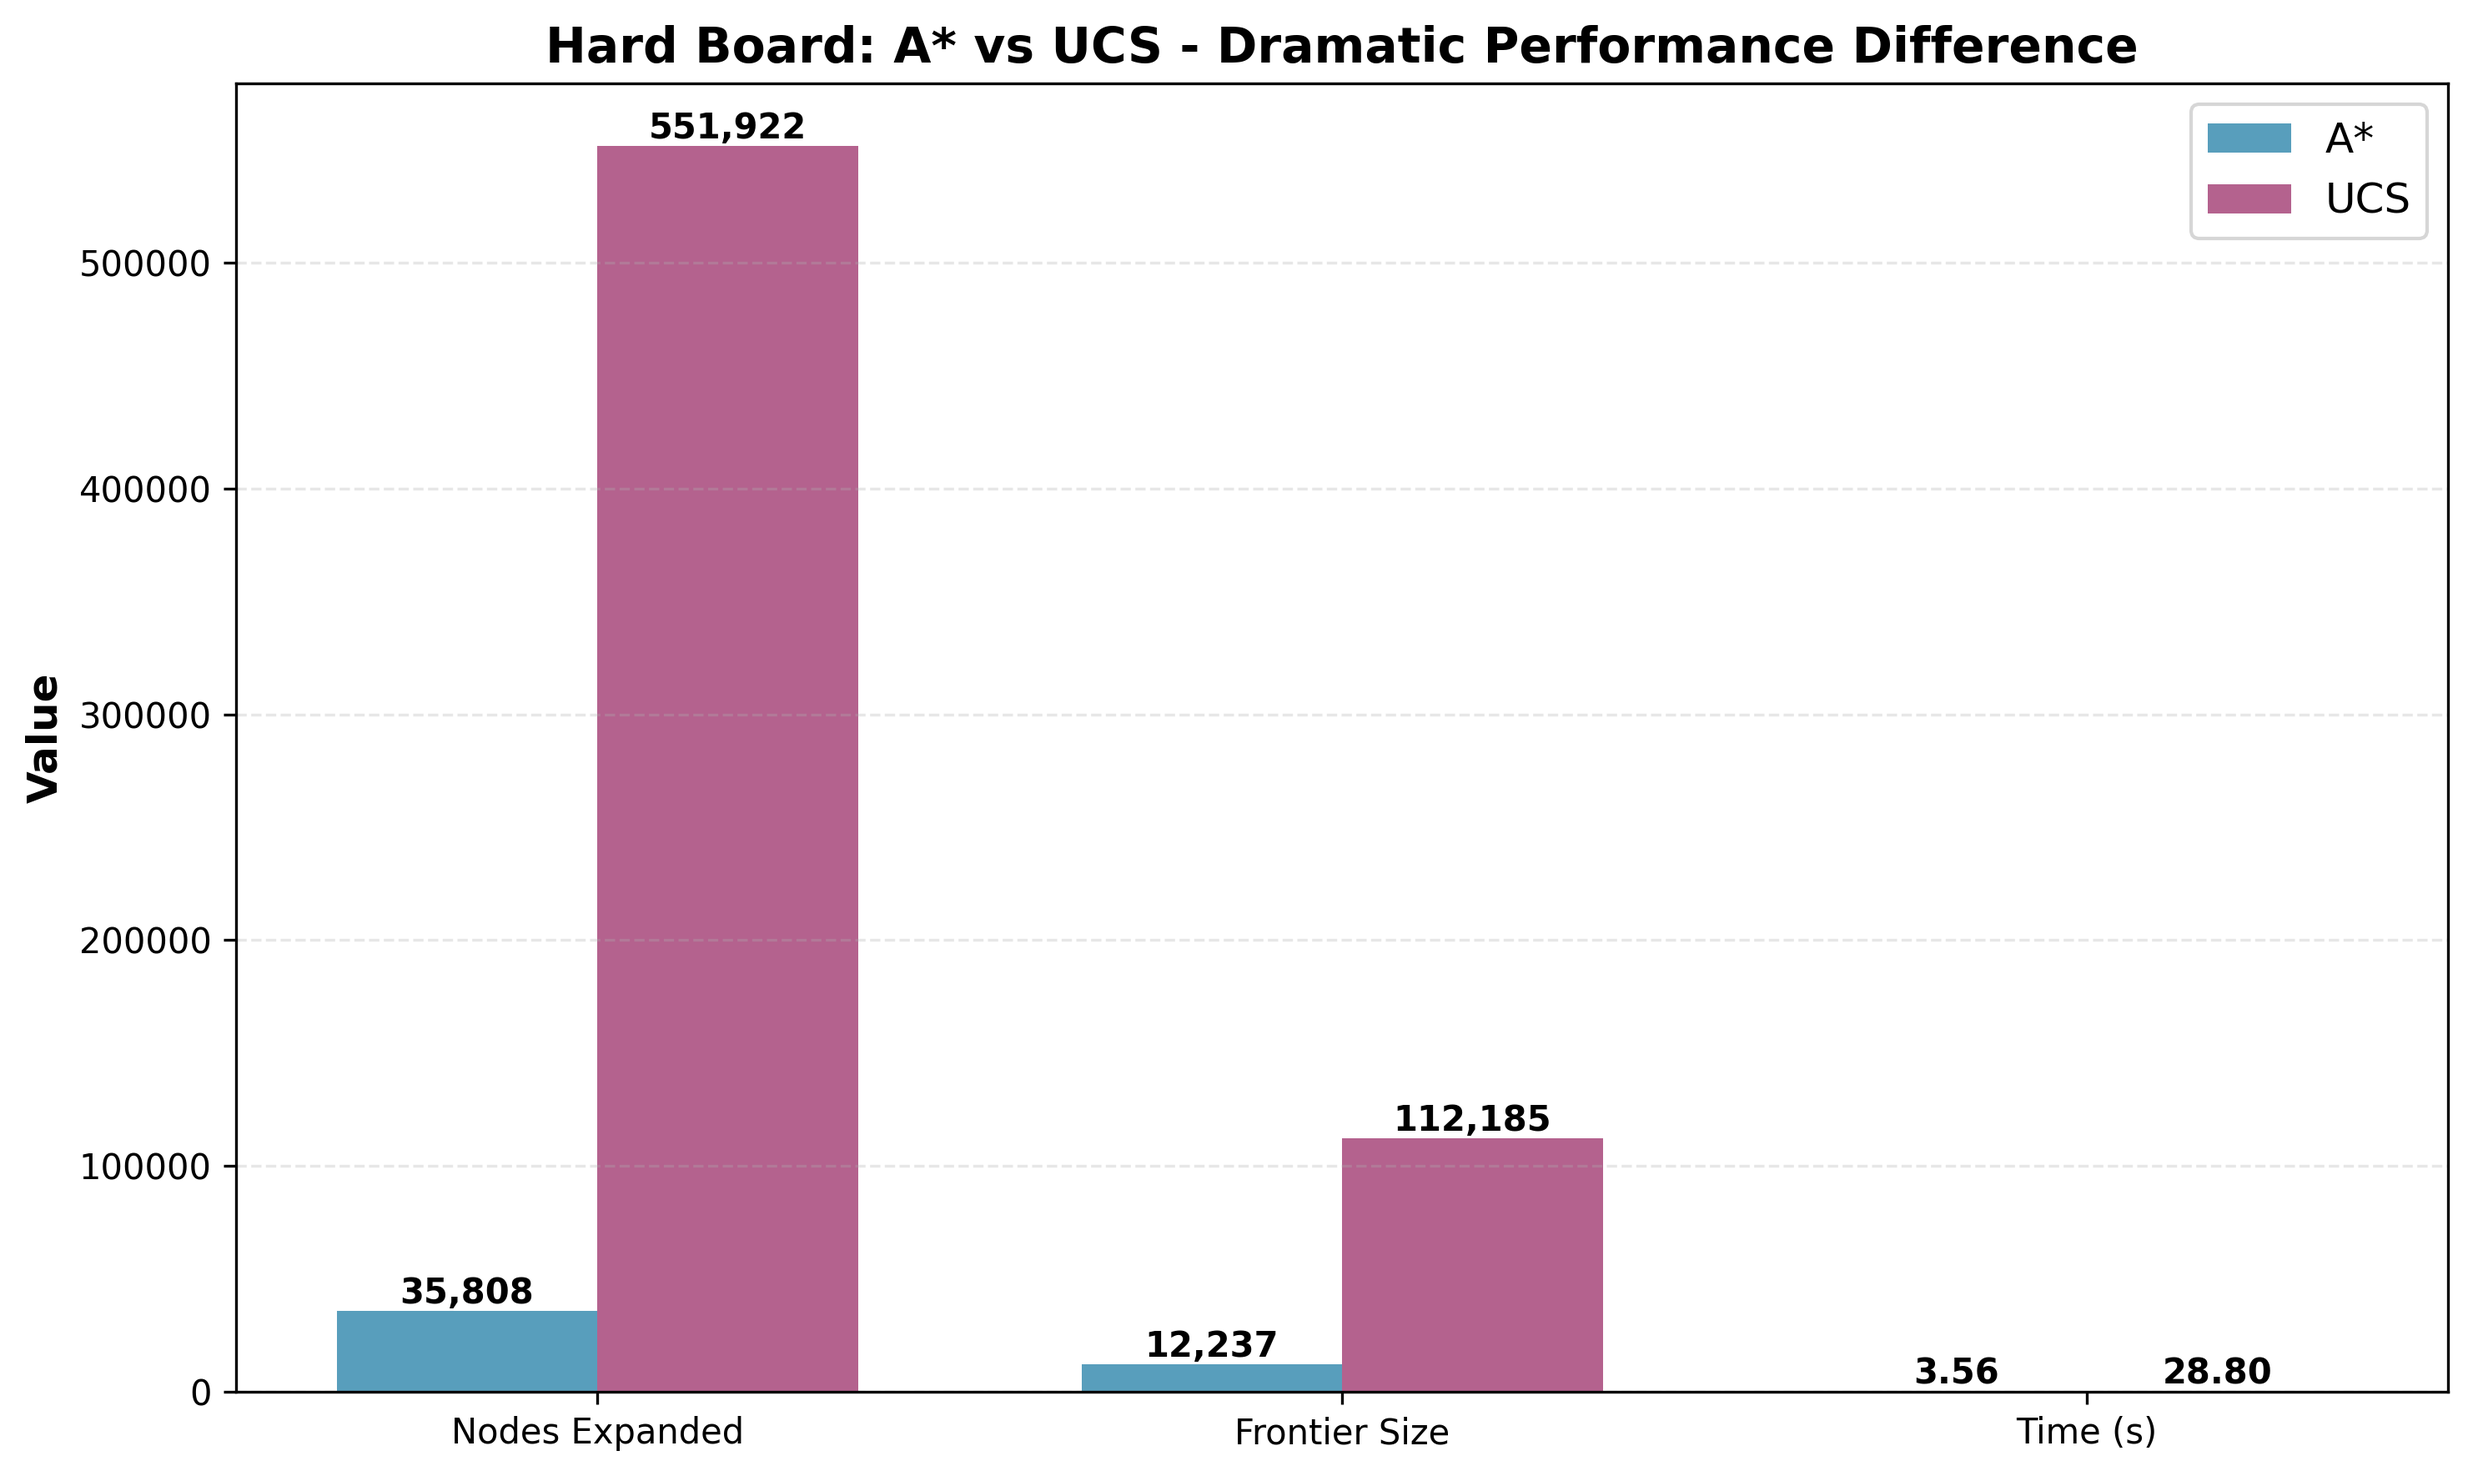
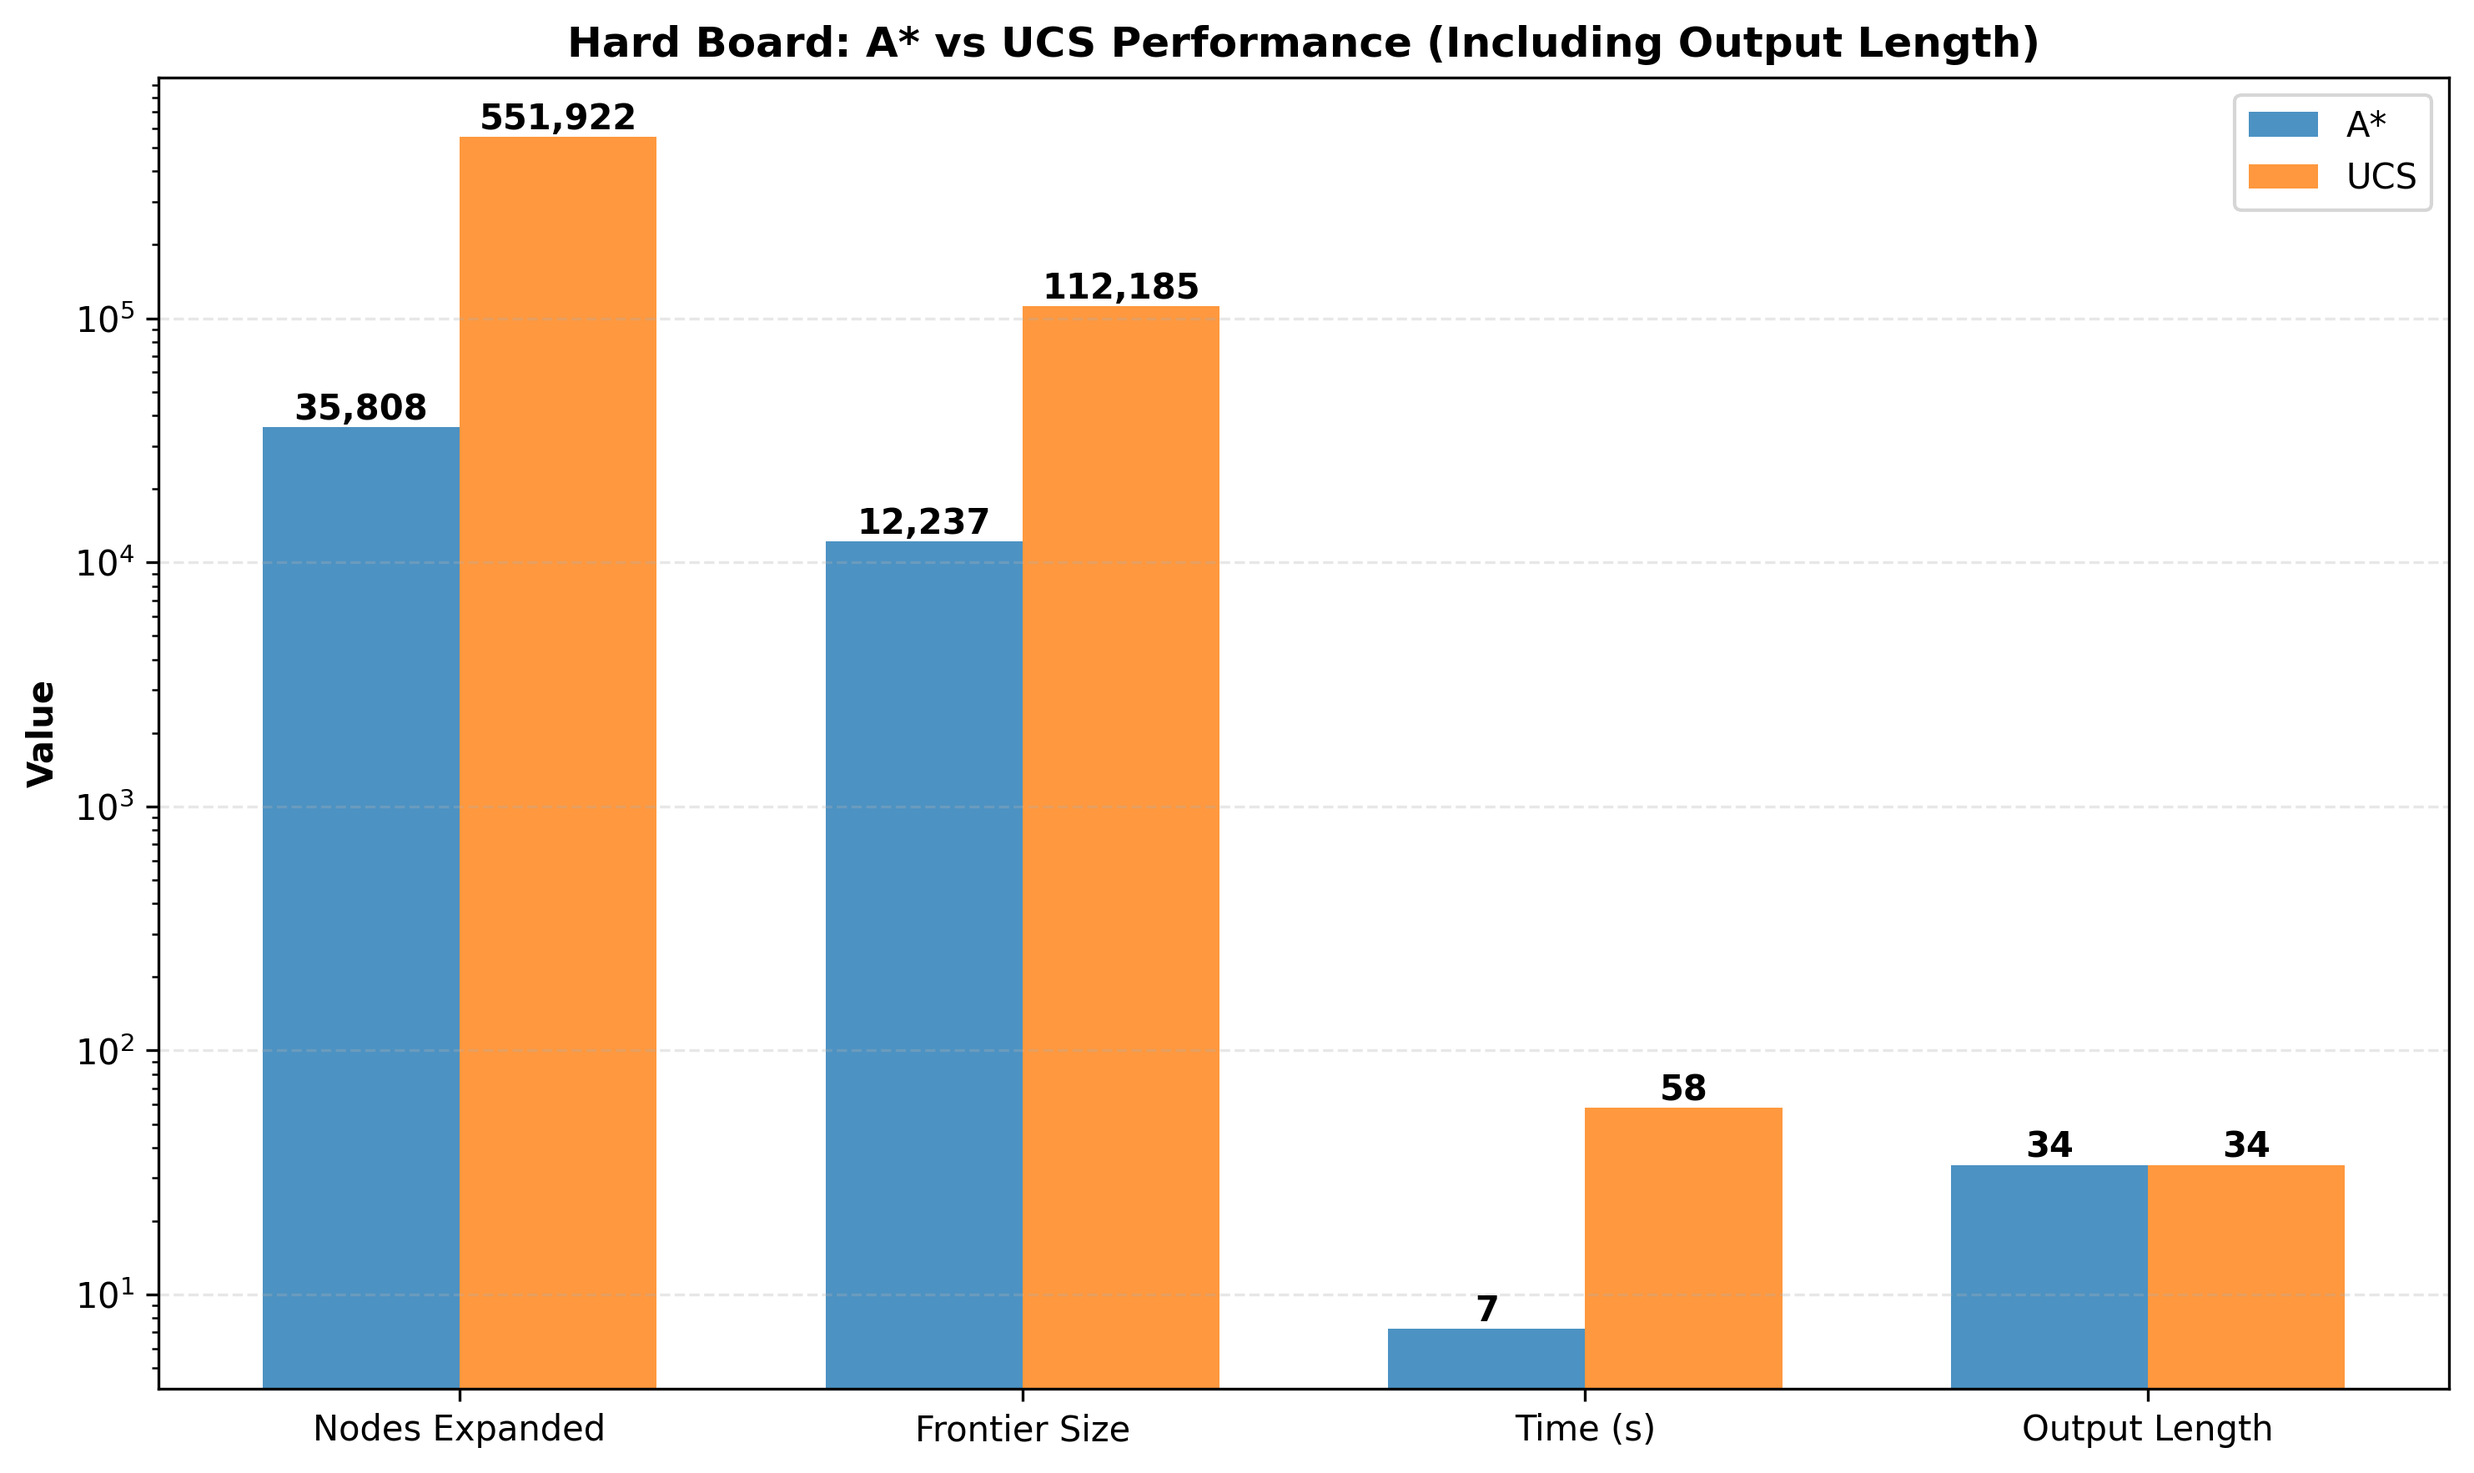
collecting data adn playing around

diff --git a/generate_figures.py b/generate_figures.py
@@ -3,101 +3,136 @@ import json
 import numpy as np
 
 def generate_figures():
-    data = []
-    with open("results.json","r") as f:
+    with open("results.json", "r") as f:
         data = json.load(f)
-    
+
     boards = ["Simple", "Mid", "Hard"]
-    metrics = ["nodes_expanded", "frontier", "time"]
-    board_keys = ["boards/sokoban_simple.txt", "boards/sokoban_mid.txt", "boards/sokoban_hard.txt"]
+    board_keys = [
+        "boards/sokoban_simple.txt",
+        "boards/sokoban_mid.txt",
+        "boards/sokoban_hard.txt",
+    ]
 
-    
-    fig, axes = plt.subplots(1, 3, figsize=(15, 5))
-    fig.suptitle('A* vs Uniform Cost Search Performance Comparison', fontsize=16, fontweight='bold')
+    # 4 metrics → 2x2 grid
+    metrics = ["nodes_expanded", "frontier", "time", "output length"]
 
-    
+    fig, axes = plt.subplots(2, 2, figsize=(15, 8))
+    fig.suptitle(
+        "A* vs Uniform Cost Search Performance Comparison",
+        fontsize=16,
+        fontweight="bold",
+    )
+
     x = np.arange(len(boards))
     width = 0.35
 
-    
     for idx, metric in enumerate(metrics):
-        ax = axes[idx]
-        
-        astar_values = [data["A Star"][board][metric] for board in board_keys]
-        ucs_values = [data["Uniform Cost Search"][board][metric] for board in board_keys]
-        
-        bars1 = ax.bar(x - width/2, astar_values, width, label='A*', color='#2E86AB', alpha=0.8)
-        bars2 = ax.bar(x + width/2, ucs_values, width, label='UCS', color='#A23B72', alpha=0.8)
-        
-        # Customize subplot
-        ax.set_xlabel('Board Difficulty', fontweight='bold')
-        ax.set_ylabel(metric.replace('_', ' ').title(), fontweight='bold')
-        ax.set_title(metric.replace('_', ' ').title())
+        row, col = divmod(idx, 2)   # <-- KEY FIX
+        ax = axes[row, col]
+
+        astar_values = [data["A Star"][b][metric] for b in board_keys]
+        ucs_values = [data["Uniform Cost Search"][b][metric] for b in board_keys]
+
+        bars1 = ax.bar(
+            x - width / 2, astar_values, width, label="A*", alpha=0.8
+        )
+        bars2 = ax.bar(
+            x + width / 2, ucs_values, width, label="UCS", alpha=0.8
+        )
+
+        ax.set_xlabel("Board Difficulty", fontweight="bold")
+        ax.set_ylabel(metric.replace("_", " ").title(), fontweight="bold")
+        ax.set_title(metric.replace("_", " ").title())
         ax.set_xticks(x)
         ax.set_xticklabels(boards)
         ax.legend()
-        ax.grid(axis='y', alpha=0.3, linestyle='--')
-        
-        
-        for bars in [bars1, bars2]:
+        ax.grid(axis="y", alpha=0.3, linestyle="--")
+
+        # Log scale for everything (including output length)
+        ax.set_yscale("log")
+
+        # Value labels (output length shown on last subplot)
+        for bars in (bars1, bars2):
             for bar in bars:
-                height = bar.get_height()
+                h = bar.get_height()
                 if metric == "time":
-                    label = f'{height:.2f}s'
+                    label = f"{h:.2f}s"
                 else:
-                    label = f'{int(height):,}'
-                ax.text(bar.get_x() + bar.get_width()/2., height,
-                    label, ha='center', va='bottom', fontsize=8)
+                    label = f"{int(h):,}"
+                ax.text(
+                    bar.get_x() + bar.get_width() / 2,
+                    h,
+                    label,
+                    ha="center",
+                    va="bottom",
+                    fontsize=8,
+                )
 
     plt.tight_layout()
-    plt.savefig('figures/performance_comparison.png', dpi=300, bbox_inches='tight')
-    
+    plt.savefig(
+        "figures/performance_comparison.png",
+        dpi=300,
+        bbox_inches="tight",
+    )
 
-    #
+    # -----------------------
+    # HARD BOARD COMPARISON
+    # -----------------------
     fig2, ax2 = plt.subplots(figsize=(10, 6))
 
-    metrics_display = ['Nodes Expanded', 'Frontier Size', 'Time (s)']
+    metrics_display = ["Nodes Expanded", "Frontier Size", "Time (s)", "Output Length"]
+
     astar_hard = [
         data["A Star"]["boards/sokoban_hard.txt"]["nodes_expanded"],
         data["A Star"]["boards/sokoban_hard.txt"]["frontier"],
-        data["A Star"]["boards/sokoban_hard.txt"]["time"]
+        data["A Star"]["boards/sokoban_hard.txt"]["time"],
+        data["A Star"]["boards/sokoban_hard.txt"]["output length"],
     ]
     ucs_hard = [
         data["Uniform Cost Search"]["boards/sokoban_hard.txt"]["nodes_expanded"],
         data["Uniform Cost Search"]["boards/sokoban_hard.txt"]["frontier"],
-        data["Uniform Cost Search"]["boards/sokoban_hard.txt"]["time"]
+        data["Uniform Cost Search"]["boards/sokoban_hard.txt"]["time"],
+        data["Uniform Cost Search"]["boards/sokoban_hard.txt"]["output length"],
     ]
 
     x2 = np.arange(len(metrics_display))
-    bars1 = ax2.bar(x2 - width/2, astar_hard, width, label='A*', color='#2E86AB', alpha=0.8)
-    bars2 = ax2.bar(x2 + width/2, ucs_hard, width, label='UCS', color='#A23B72', alpha=0.8)
+    bars1 = ax2.bar(x2 - width / 2, astar_hard, width, label="A*", alpha=0.8)
+    bars2 = ax2.bar(x2 + width / 2, ucs_hard, width, label="UCS", alpha=0.8)
 
-    ax2.set_ylabel('Value', fontweight='bold', fontsize=12)
-    ax2.set_title('Hard Board: A* vs UCS - Dramatic Performance Difference', fontweight='bold', fontsize=14)
+    ax2.set_yscale("log")
+    ax2.set_ylabel("Value", fontweight="bold")
+    ax2.set_title(
+        "Hard Board: A* vs UCS Performance (Including Output Length)",
+        fontweight="bold",
+    )
     ax2.set_xticks(x2)
     ax2.set_xticklabels(metrics_display)
-    ax2.legend(fontsize=12)
-    ax2.grid(axis='y', alpha=0.3, linestyle='--')
+    ax2.legend()
+    ax2.grid(axis="y", alpha=0.3, linestyle="--")
 
-    # Add value labels
-    for bars in [bars1, bars2]:
+    for bars in (bars1, bars2):
         for bar in bars:
-            height = bar.get_height()
-            if height >= 1000:
-                label = f'{int(height):,}'
-            else:
-                label = f'{height:.2f}'
-            ax2.text(bar.get_x() + bar.get_width()/2., height,
-                label, ha='center', va='bottom', fontsize=10, fontweight='bold')
+            h = bar.get_height()
+            label = f"{int(h):,}" if h >= 1 else f"{h:.2f}"
+            ax2.text(
+                bar.get_x() + bar.get_width() / 2,
+                h,
+                label,
+                ha="center",
+                va="bottom",
+                fontsize=10,
+                fontweight="bold",
+            )
 
     plt.tight_layout()
-    plt.savefig('figures/hard_board_comparison.png', dpi=300, bbox_inches='tight')
-    
+    plt.savefig(
+        "figures/hard_board_comparison.png",
+        dpi=300,
+        bbox_inches="tight",
+    )
 
     plt.show()
 
 
-
-
-if __name__== "__main__":
+if __name__ == "__main__":
     generate_figures()

diff --git a/src/sokoban.py b/src/sokoban.py
@@ -186,7 +186,7 @@ class Sokoban(Problem):
                 if char == "b":
                     bsf_score= bsf((i,j))
                 
-        is_corner_soft_lock = corner_soft_lock()
+        is_corner_soft_lock =  corner_soft_lock()
         is_box_soft_lock = box_box_soft_lock()
         self.bsf_calls +=1
         # print(f"{self.bsf_calls}: {type(bsf_score)}")
